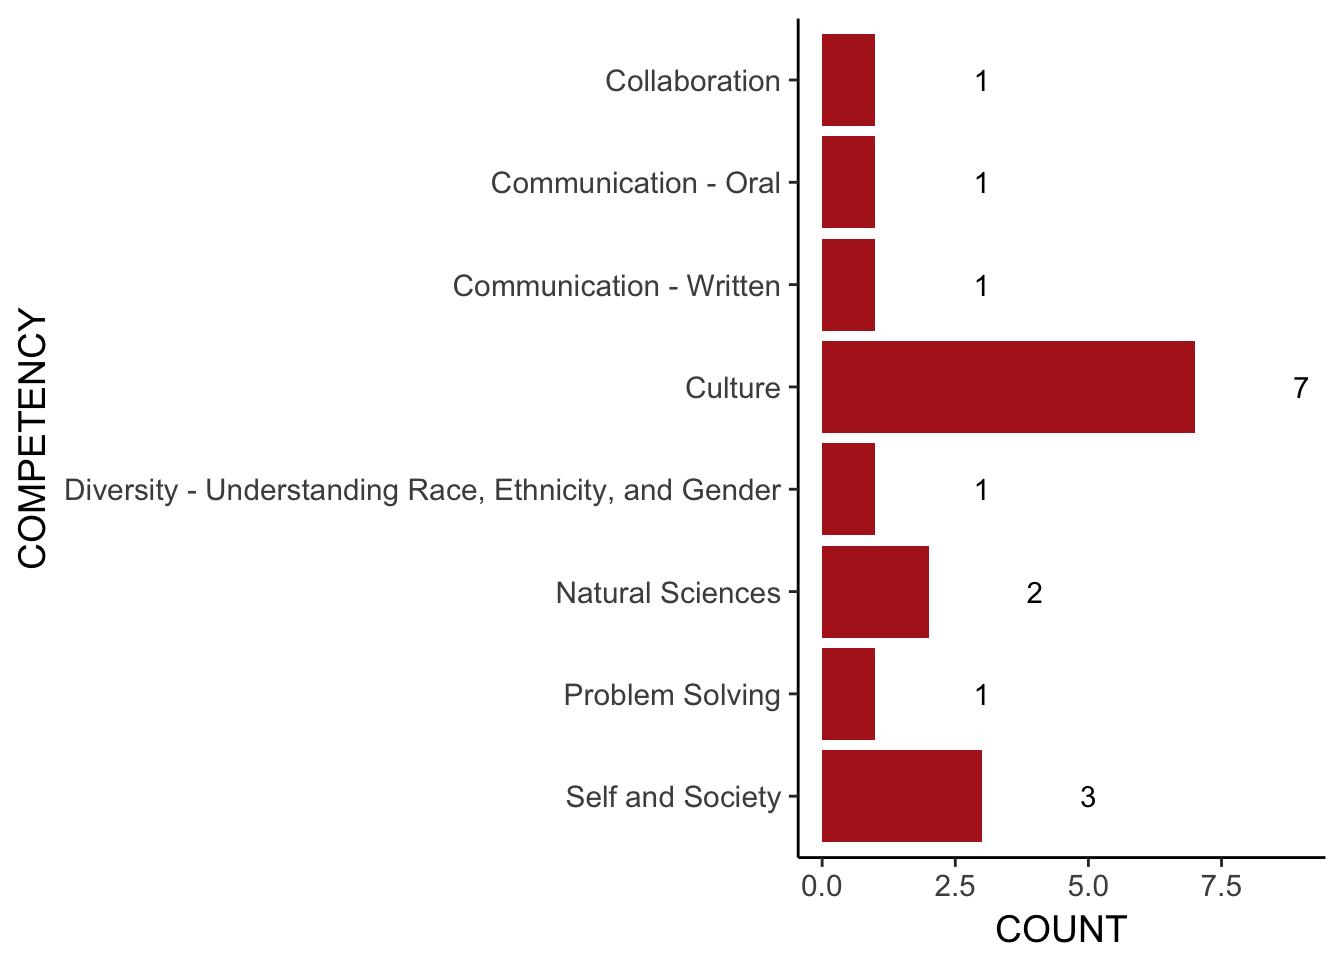
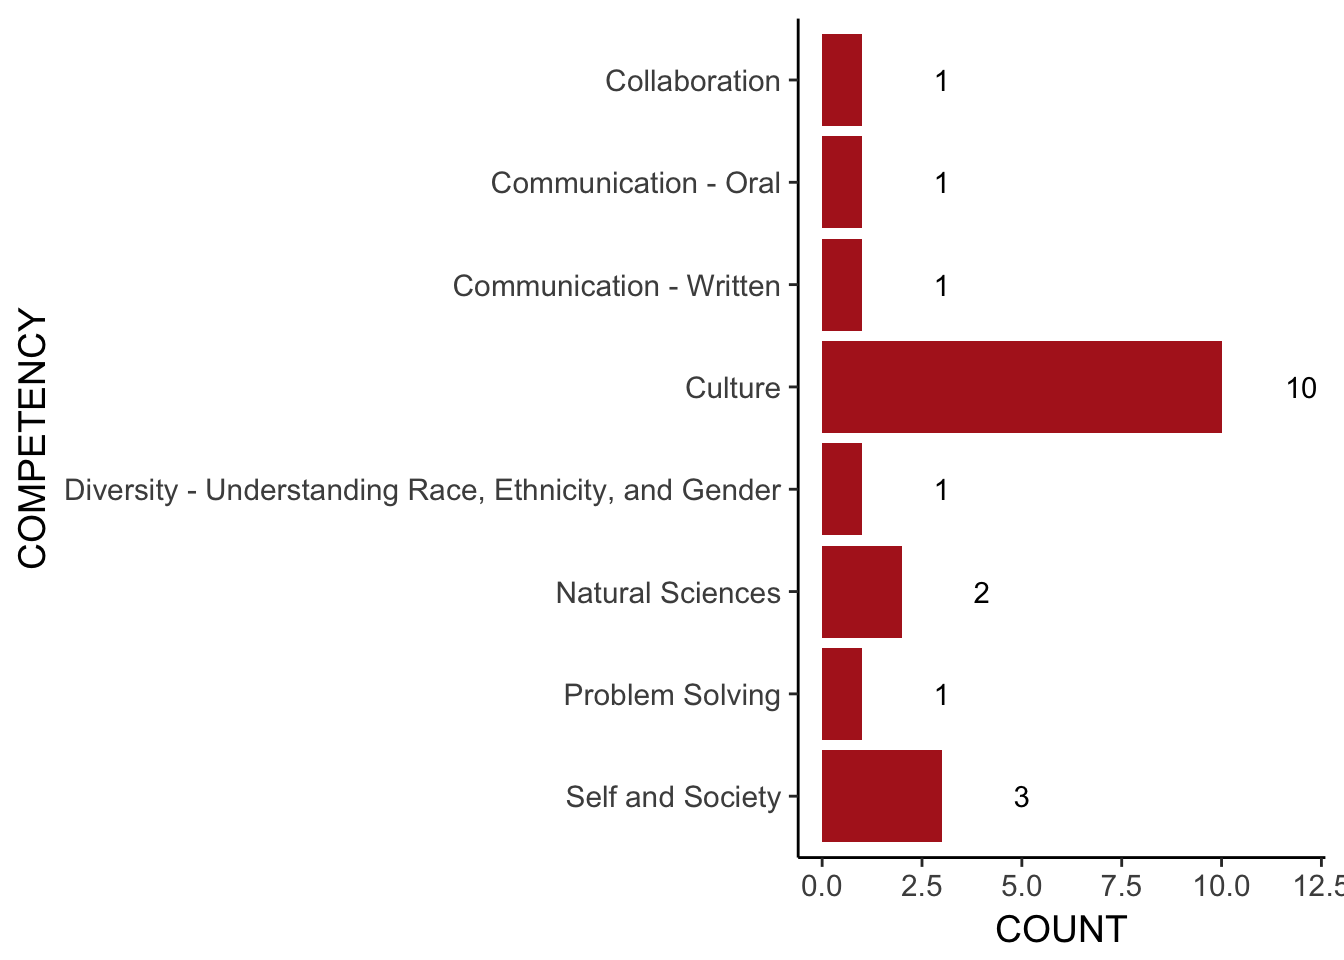
Rebuilt the gitbook after updating Disqus

diff --git a/docs/results.html b/docs/results.html
@@ -102,7 +102,7 @@
             <section class="normal" id="section-">
 <div id="results" class="section level1 unnumbered">
 <h1>Results and Discussion</h1>
-<p>A total of 17 registrations have been completed as of January 28, 2018. This includes a total of 14 different courses. The distribution of the registrations between the eight core competencies is shown in figure <a href="results.html#fig:competency">1</a>.</p>
+<p>A total of 20 registrations have been completed as of January 28, 2018. This includes a total of 17 different courses. The distribution of the registrations between the eight core competencies is shown in figure <a href="results.html#fig:competency">1</a>.</p>
 <div class="figure"><span id="fig:competency"></span>
 <img src="Report-1702_files/figure-html/competency-1.png" alt="Distribution of course registrations by core competency." width="672" />
 <p class="caption">
@@ -114,7 +114,7 @@ Figure 1: Distribution of course registrations by core competency.
 </li>
 <li>A total of NA student products were registered (NA%).<br />
 </li>
-<li>A total of 5 student performances were registered (29.4%).</li>
+<li>A total of 5 student performances were registered (25%).</li>
 </ul>
 <div class="figure"><span id="fig:measure"></span>
 <img src="Report-1702_files/figure-html/measure-1.png" alt="Distribution of course registrations by standardized measure." width="672" />
@@ -143,7 +143,7 @@ this.page.identifier = PAGE_IDENTIFIER; // Replace PAGE_IDENTIFIER with your pag
 */
 (function() { // DON'T EDIT BELOW THIS LINE
 var d = document, s = d.createElement('script');
-s.src = 'https://report-1702.disqus.com/embed.js';
+s.src = 'https://report-1801.disqus.com/embed.js';
 s.setAttribute('data-timestamp', +new Date());
 (d.head || d.body).appendChild(s);
 })();

diff --git a/docs/index.html b/docs/index.html
@@ -134,7 +134,7 @@ this.page.identifier = PAGE_IDENTIFIER; // Replace PAGE_IDENTIFIER with your pag
 */
 (function() { // DON'T EDIT BELOW THIS LINE
 var d = document, s = d.createElement('script');
-s.src = 'https://report-1702.disqus.com/embed.js';
+s.src = 'https://report-1801.disqus.com/embed.js';
 s.setAttribute('data-timestamp', +new Date());
 (d.head || d.body).appendChild(s);
 })();

diff --git a/docs/introduction.html b/docs/introduction.html
@@ -117,7 +117,7 @@ this.page.identifier = PAGE_IDENTIFIER; // Replace PAGE_IDENTIFIER with your pag
 */
 (function() { // DON'T EDIT BELOW THIS LINE
 var d = document, s = d.createElement('script');
-s.src = 'https://report-1702.disqus.com/embed.js';
+s.src = 'https://report-1801.disqus.com/embed.js';
 s.setAttribute('data-timestamp', +new Date());
 (d.head || d.body).appendChild(s);
 })();

diff --git a/docs/methods.html b/docs/methods.html
@@ -157,7 +157,7 @@ this.page.identifier = PAGE_IDENTIFIER; // Replace PAGE_IDENTIFIER with your pag
 */
 (function() { // DON'T EDIT BELOW THIS LINE
 var d = document, s = d.createElement('script');
-s.src = 'https://report-1702.disqus.com/embed.js';
+s.src = 'https://report-1801.disqus.com/embed.js';
 s.setAttribute('data-timestamp', +new Date());
 (d.head || d.body).appendChild(s);
 })();

diff --git a/docs/references.html b/docs/references.html
@@ -138,7 +138,7 @@ this.page.identifier = PAGE_IDENTIFIER; // Replace PAGE_IDENTIFIER with your pag
 */
 (function() { // DON'T EDIT BELOW THIS LINE
 var d = document, s = d.createElement('script');
-s.src = 'https://report-1702.disqus.com/embed.js';
+s.src = 'https://report-1801.disqus.com/embed.js';
 s.setAttribute('data-timestamp', +new Date());
 (d.head || d.body).appendChild(s);
 })();
